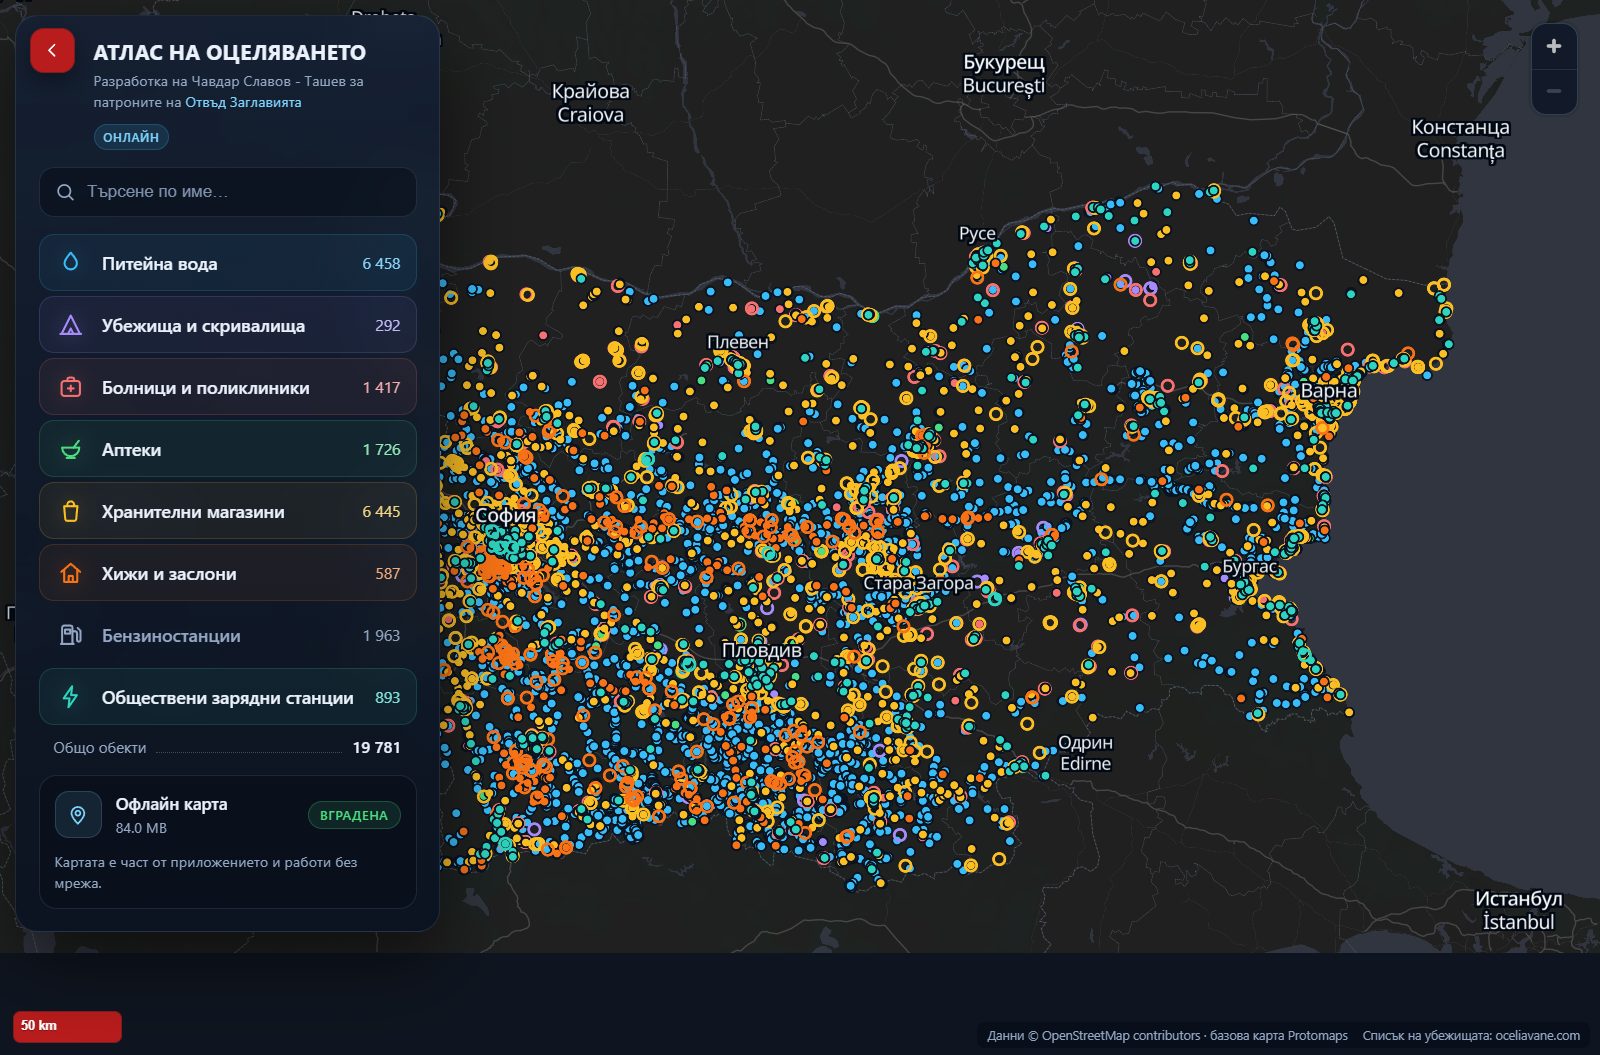
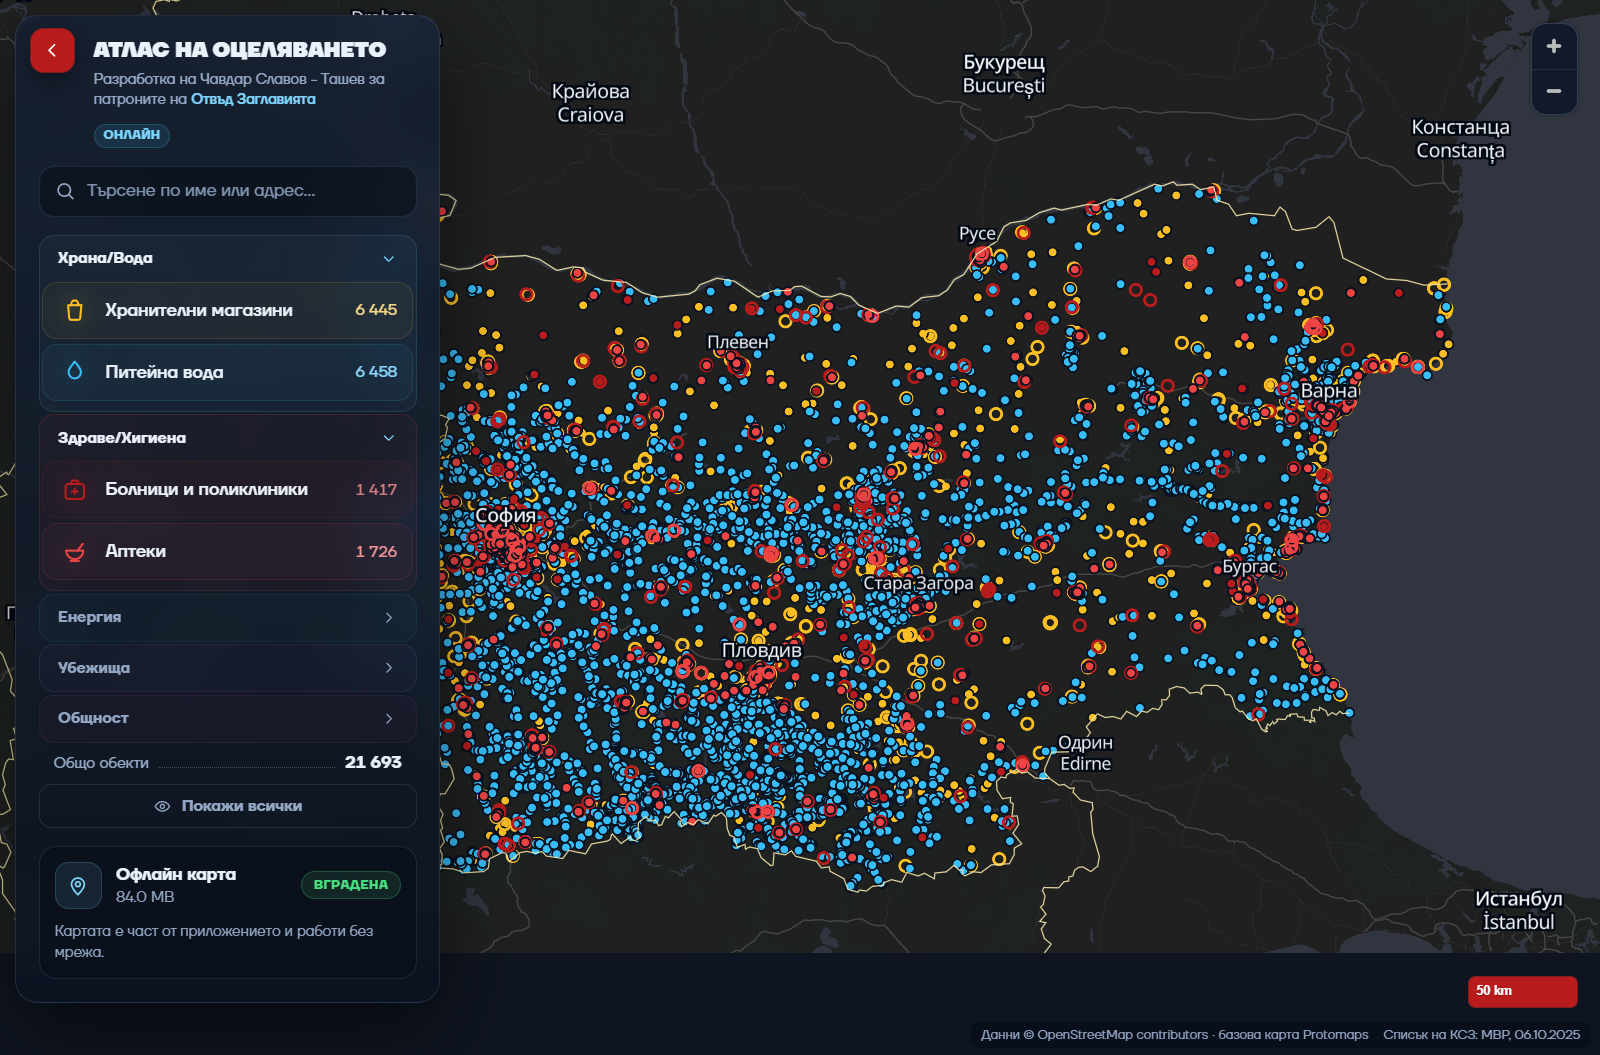
Release page for v0.2.0
Updates README to 11 layers and 21 693 objects, replaces the shelter credit with the official MVR list, documents TT Firs Neue, and refreshes release notes, screenshot and checksum.

diff --git a/RELEASE_NOTES.md b/RELEASE_NOTES.md
@@ -1,38 +1,50 @@
-# АТЛАС НА ОЦЕЛЯВАНЕТО 0.1.0
+# АТЛАС НА ОЦЕЛЯВАНЕТО 0.2.0
 
-Първа публична версия за Windows.
+Второ публично издание за Windows: панел-акордеон, нови общностни слоеве и официален
+списък на убежищата от МВР.
 
-## Какво има
+## Какво ново
 
-- Всички обекти в 8 слоя: вода, убежища, болници, аптеки, храна, хижи, гориво и
-  зарядни станции — 19 781 точки.
-- Базовата карта е вградена в инсталатора; приложението работи офлайн веднага.
-- Филтри по категория, търсене по име, общ брой обекти.
-- Детайли при клик с координати и бутон за копиране.
-- Тъмна карта с надписи на населените места.
+- **21 693 обекта в 11 слоя** (преди 19 781 в 8).
+- **Панел-акордеон с пет секции**: Храна/Вода, Здраве/Хигиена, Енергия, Убежища,
+  Общност. При старт са отворени първите две и на картата се виждат само храна, вода,
+  болници и аптеки; останалите се включват с клик.
+- **Нови слоеве**: читалища (738), общини и кметства (1 118), манастири (101).
+- **Бутон „Покажи всички / Скрий всички“** под общия брой обекти.
+- **Търсене по име и адрес**; при съвпадение секцията се разгръща.
+- **Убежища от официалния списък на МВР** към 06.10.2025 — 247 обекта, с точност на
+  координатите и номер по списък в детайлите.
+- **Нов интерфейсен шрифт** TT Firs Neue; по-прозрачен панел, цветна тайнт на секциите,
+  червен мащаб долу вдясно.
+- **Бледожълта държавна граница** над точките и блокирано вертикално панорамиране при
+  национален zoom.
+- Детайли за убежища: вид, категория, номер по списък, оператор.
 
 ## Инсталация
 
-1. Свали `Atlas-0.1.0-x64-setup.exe`.
+1. Свали `Atlas-0.2.0-x64-setup.exe`.
 2. При SmartScreen: **More info → Run anyway** (инсталаторът е неподписан).
 3. Next → Install. Инсталира се за текущия потребител, без админ.
 
-Windows 10/11 x64. Размер ~88 MB. След инсталация не е нужен интернет.
+Windows 10/11 x64. Размер ~89 MB. След инсталация не е нужен интернет.
 
 ## Проверка на файла
 
 SHA-256:
 
 ```text
-3fa3884494b5e1d7732967a7b75eeb3a853d48e3470fb79f8321ff0a9dd92162  Atlas-0.1.0-x64-setup.exe
+497ddcdd1c195a30d9881348f555e4b35c4a7d7905b2bc45a002956b9a0adf30  Atlas-0.2.0-x64-setup.exe
 ```
 
 ## Лиценз и данни
 
 Кодът е proprietary; виж `LICENSE`. OSM данните са под ODbL 1.0, шрифтовете Noto са
-под OFL 1.1. Кредитите са в `ATTRIBUTION.md` и в самото приложение.
+под OFL 1.1, TT Firs Neue е с комерсиален лиценз на собственика. Кредитите са в
+`ATTRIBUTION.md` и в самото приложение.
 
 ## Известни ограничения
 
 - Инсталаторът не е подписан — SmartScreen предупреждава.
-- При национален zoom точките се застъпват; клъстерирането предстои.
+- Иконата на приложението е временна; финалното лого предстои.
+- При национален zoom точките се застъпват; изборът при застъпване предстои.
+- 175 от 247 убежища са с приблизителни координати (улица или населено място).

diff --git a/ATTRIBUTION.md b/ATTRIBUTION.md
@@ -18,13 +18,18 @@
 
 ## Убежища
 
-- Списък на убежищата: **oceliavane.com** — включен с разрешение на носителя на
-  правата. Кредитът в интерфейса е задължителен.
+- Списък на колективните средства за защита: **МВР, 06.10.2025** (публичен списък).
+  Кредитът в интерфейса е задължителен.
+- Координатите са геокодирани чрез **OpenStreetMap/Nominatim** и са под ODbL; те не са
+  официални координати от МВР. Точността е отбелязана в детайлите на всеки обект.
 
 ## Шрифтове
 
 - **Noto Sans** (Regular, Medium, Italic) © Google, SIL Open Font License 1.1.
   Пълният текст: `licenses/OFL-1.1.txt`.
+- **TT Firs Neue** © TypeType, използван с комерсиален лиценз, притежаван от
+  собственика на проекта. Шрифтовите файлове не се разпространяват отделно от
+  приложението.
 
 ## Софтуерни компоненти
 
@@ -42,4 +47,4 @@
 Приложението показва:
 
 - „Данни © OpenStreetMap contributors · базова карта Protomaps“
-- „Списък на убежищата: oceliavane.com“
+- „Списък на КСЗ: МВР, 06.10.2025“
